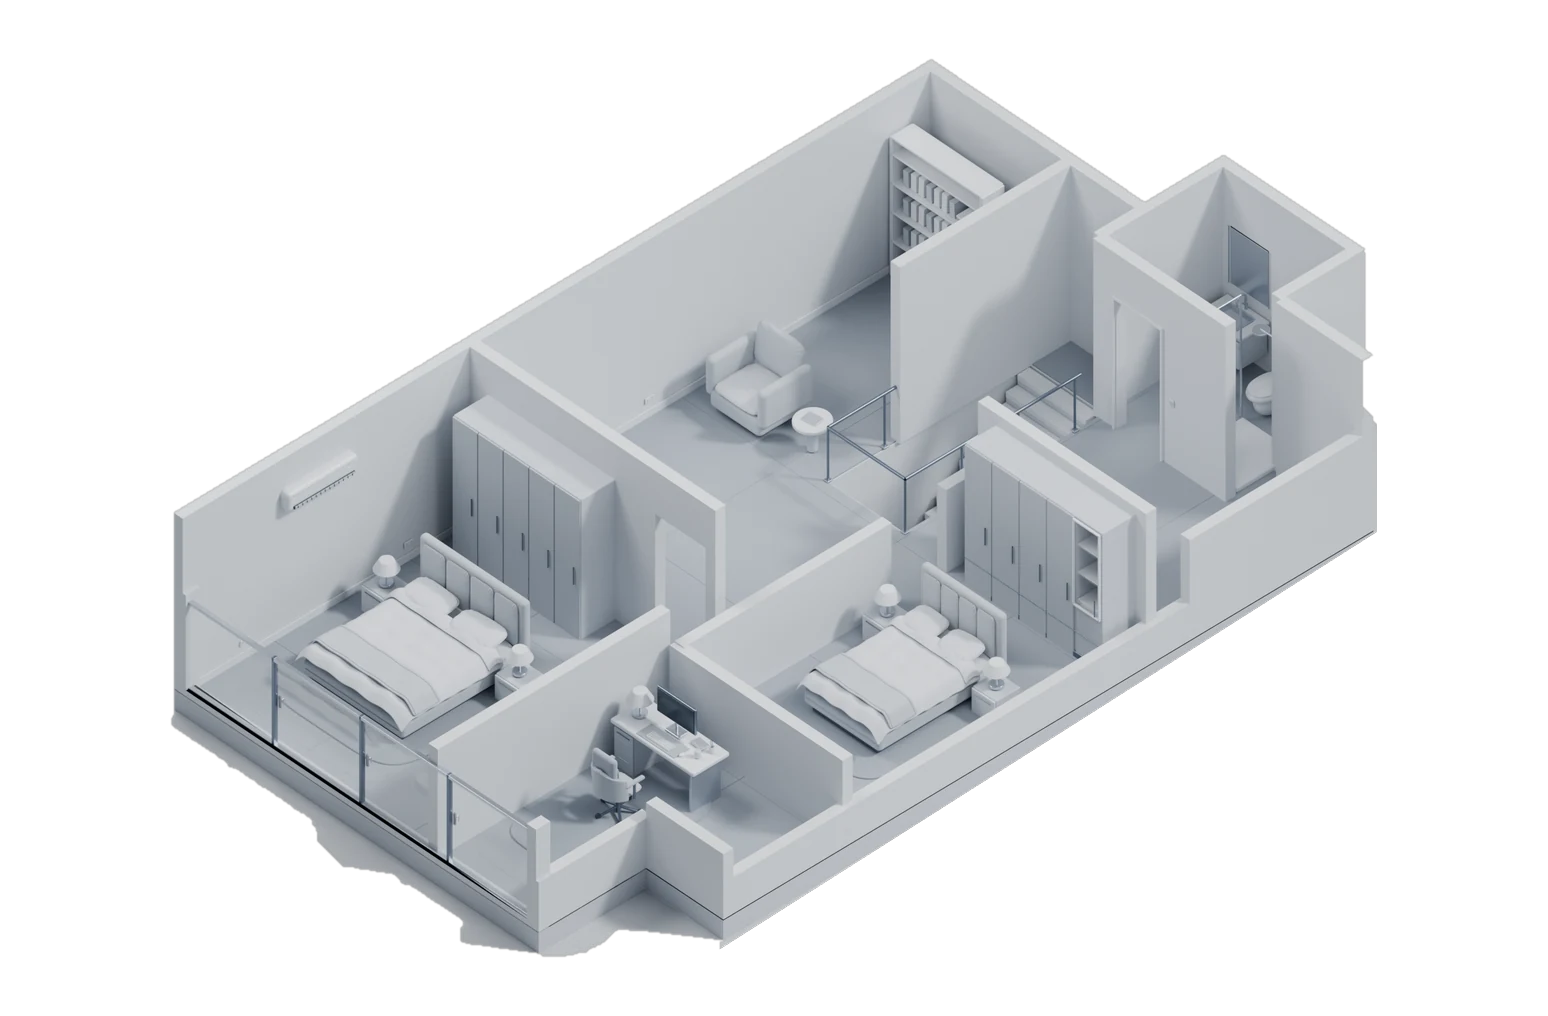
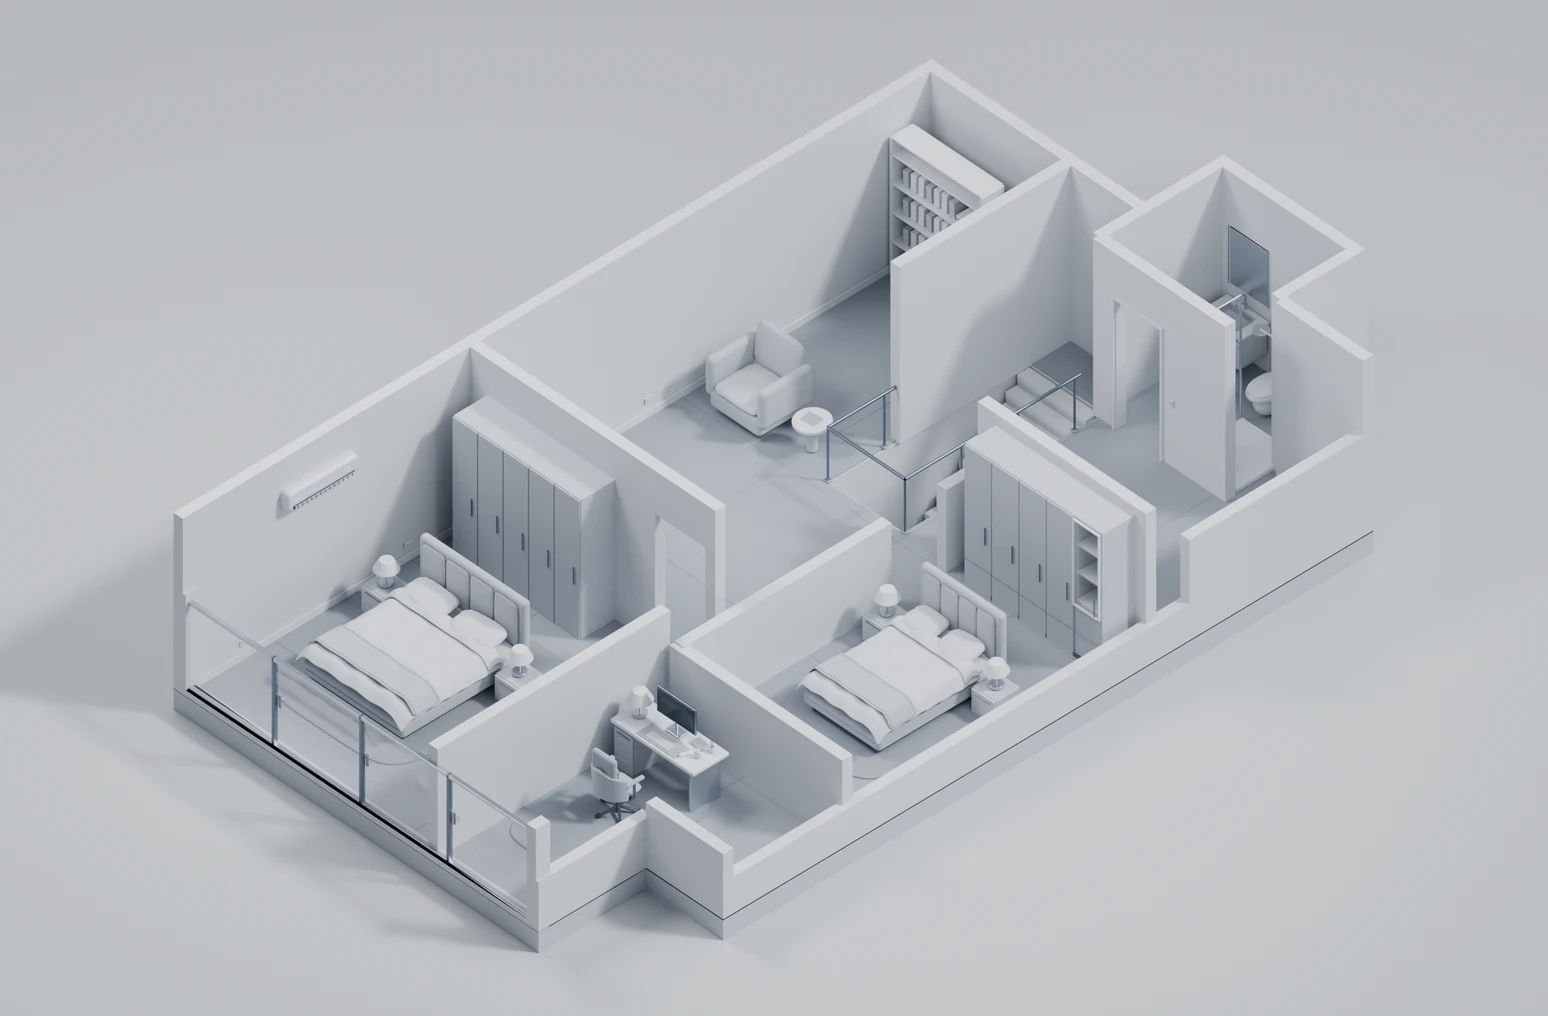
Floor plans: keep the rendered space (floor + shadows) as-is; map panel matches
Claude-Session: https://claude.ai/code/session_018mnowPvBHGDxwTwfuUijNo

diff --git a/wallpad/index.html b/wallpad/index.html
@@ -51,8 +51,8 @@
   .stage.expanded .map{left:0;top:0;width:1280px;height:720px;border-radius:24px;border-color:transparent}
   .viewport{position:absolute;inset:0;cursor:grab;touch-action:none}
   .viewport.dragging{cursor:grabbing}
-  .world{position:absolute;left:50%;top:50%;aspect-ratio:1548/1016;height:calc(100% - 22px);max-width:calc(100% - 22px);
-         transform:translate(-50%,-48%) translate(var(--px,0px),var(--py,0px)) scale(var(--z,1));transform-origin:center;background:var(--panel);
+  .world{position:absolute;left:50%;top:50%;aspect-ratio:1548/1016;height:100%;
+         transform:translate(-50%,-50%) translate(var(--px,0px),var(--py,0px)) scale(var(--z,1));transform-origin:center;background:var(--panel);
          transition:transform .55s var(--ease)}
   .viewport.dragging .world,.world.no-anim{transition:none}
   /* 층 전환: 짧은 크로스페이드 + 층 방향으로 살짝 이동 (블러·스케일 없음) */

diff --git a/ui/detail.css b/ui/detail.css
@@ -34,8 +34,9 @@
 .now::before{width:14px!important;height:14px!important;margin-left:-7px!important;top:-3px!important;background:#fff!important;
              box-shadow:inset 0 0 0 4px #2B9CFF,0 0 0 6px rgba(43,156,255,.14)}
 
-/* 6. 지도 점 격자 */
-.map{background:radial-gradient(circle,#D9DCE0 1px,transparent 1.3px) 0 0/22px 22px,var(--panel)!important}
+/* 6. 도면 패널 */
+/* 도면 이미지가 바닥·그림자까지 포함 → 패널 바탕도 같은 회색으로 */
+.map{background:radial-gradient(ellipse at 50% 45%,#C7C9CC,#B4B7BB)!important}
 .world{background:transparent!important}
 
 /* 선택 상태 */
